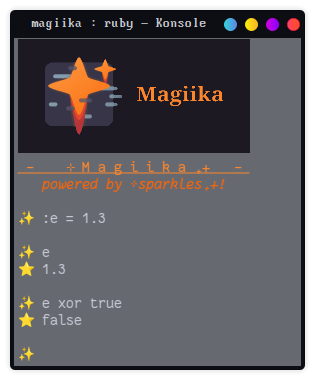
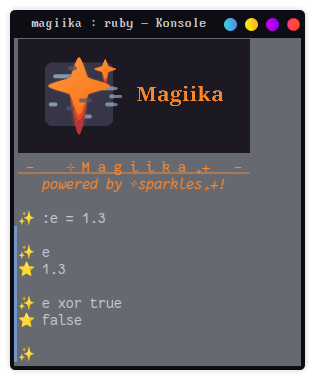
Changed color

diff --git a/magiika.rb b/magiika.rb
@@ -8,7 +8,7 @@ ANSI_RESET              = "\x1b[m"
 ANSI_UNDERLINE_ON       = "\x1b[4m"
 ANSI_UNDERLINE_OFF      = "\x1b[24m"
 ANSI_BOLD_ACCENT_STYLE  = "\x1b[38;2;253;134;42;4m"
-ANSI_ACCENT_STYLE       = "\x1b[38;2;253;102;5;3m"
+ANSI_ACCENT_STYLE       = "\x1b[38;2;253;134;42;3m"
 ANSI_WARNING_STYLE      = "\x1b[38;2;235;59;47m"
 ANSI_RELAXED_STYLE      = "\x1b[38;2;150;178;195m"
 
